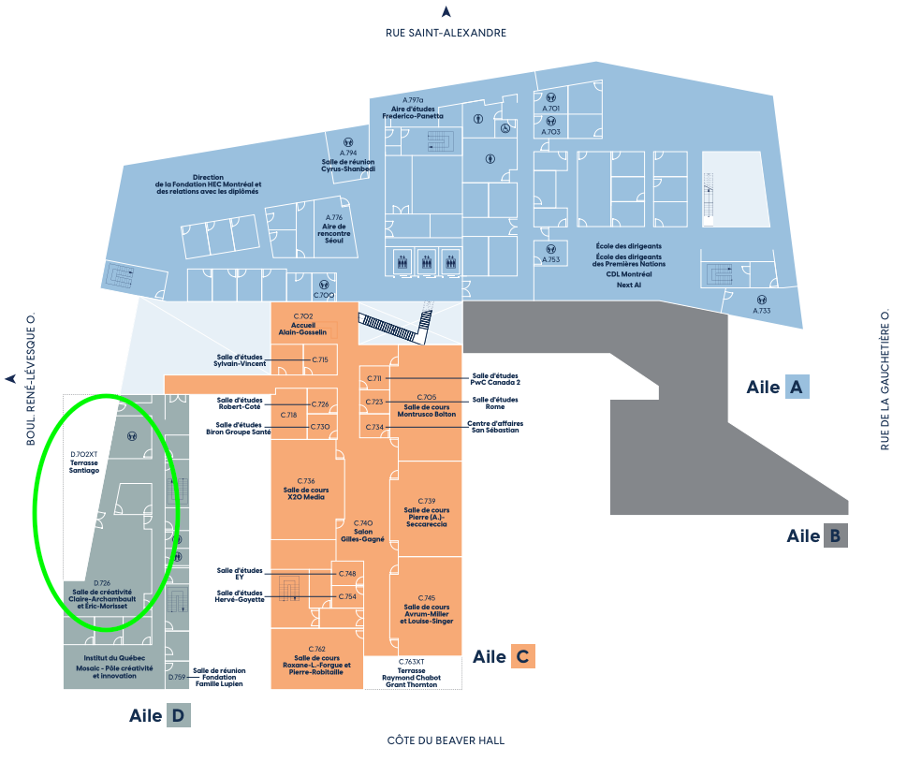
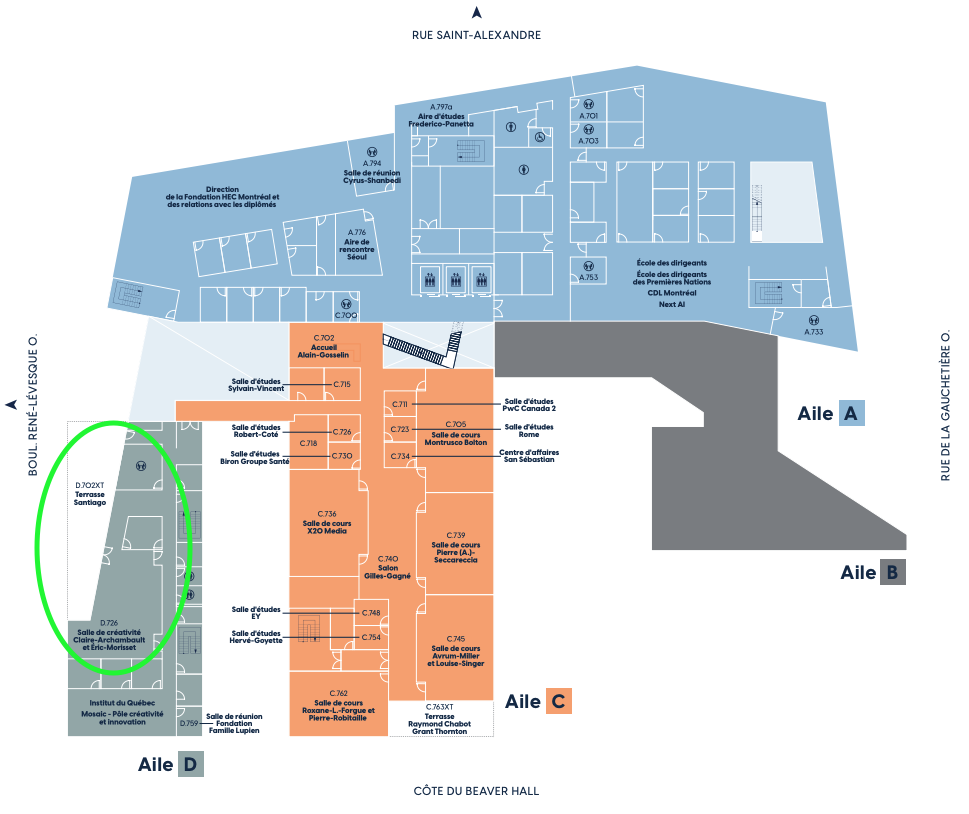
Replace floor plans - sizes & zooming option

diff --git a/docs/_layouts/default.html b/docs/_layouts/default.html
@@ -19,5 +19,36 @@
 
     {% include footer.html %}
 
+    <div class="img-modal" id="imgModal" aria-hidden="true">
+      <img id="imgModalContent" alt="">
+    </div>
+
+    <script>
+      const modal = document.getElementById("imgModal");
+      const modalImg = document.getElementById("imgModalContent");
+
+      document.addEventListener("click", (e) => {
+        const img = e.target.closest("img.zoom-img");
+        if (img) {
+          modalImg.src = img.src;
+          modalImg.alt = img.alt || "Zoomed image";
+          modal.classList.add("open");
+          modal.setAttribute("aria-hidden", "false");
+        } else if (e.target === modal) {
+          modal.classList.remove("open");
+          modal.setAttribute("aria-hidden", "true");
+          modalImg.src = "";
+        }
+      });
+
+      document.addEventListener("keydown", (e) => {
+        if (e.key === "Escape" && modal.classList.contains("open")) {
+          modal.classList.remove("open");
+          modal.setAttribute("aria-hidden", "true");
+          modalImg.src = "";
+        }
+      });
+    </script>
+
   </body>
 </html>

diff --git a/docs/assets/style.css b/docs/assets/style.css
@@ -234,6 +234,28 @@ hr {
   margin: 22px 0;
 }
 
+/* Zoom Images */
+.zoom-img { cursor: zoom-in; }
+
+.img-modal {
+  position: fixed; inset: 0;
+  background: rgba(0,0,0,.85);
+  display: none;
+  align-items: center;
+  justify-content: center;
+  padding: 24px;
+  z-index: 9999;
+}
+
+.img-modal.open { display: flex; }
+
+.img-modal img {
+  max-width: 95vw;
+  max-height: 95vh;
+  width: auto;
+  height: auto;
+}
+
 /* Footer */
 .site-footer {
   background: var(--footer-bg);

diff --git a/docs/accessibilite.md b/docs/accessibilite.md
@@ -45,7 +45,7 @@ Le pavillon Hélène-Desmarais possède plusieurs entrées :
 - **Métro :** Square-Victoria–OACI — suivre le panneau HEC Montréal et traverser le couloir jusqu’à la sortie. L’entrée Famille Waechter se situe juste en face, en traversant le passage piéton.
 - **Autobus :** ligne 150.
 - **Vélo :** supports à vélos intérieurs et extérieurs, ainsi que des stations BIXI à proximité (voir l’application BIXI).
-- **Voiture :** stationnement sur la rue de La Gauchetière Ouest; bornes pour véhicules électriques.
+- **Voiture :** entrée du stationnement sur la rue de La Gauchetière Ouest; bornes pour véhicules électriques.
 
 ---
 
@@ -53,21 +53,20 @@ Le pavillon Hélène-Desmarais possède plusieurs entrées :
 
 Voici un aperçu des salles où la conférence se déroulera, par étage.
 
-- **3e étage :** B.307 — Salle multifonctionnelle
-  ![3e étage carte]({{ site.baseurl }}/assets/img/accessibilite/etage-3.png)
+- **3e étage :** B.307 — Salle multifonctionnelle  
+  <img class="zoom-img" src="{{ site.baseurl }}/assets/img/accessibilite/etage-3.png" alt="Carte du 3e étage">
 
-- **4e étage :** A.451 — C.406 — C.412 — C.403
-  ![4e étage carte]({{ site.baseurl }}/assets/img/accessibilite/etage-4.png)
+- **4e étage :** A.451 — C.406 — C.412 — C.403  
+  <img class="zoom-img" src="{{ site.baseurl }}/assets/img/accessibilite/etage-4.png" alt="Carte du 4e étage">
 
-- **5e étage :** A.551 — A.505 — A.515 — C.521 — C.539
-  ![5e étage carte]({{ site.baseurl }}/assets/img/accessibilite/etage-5.png)
+- **5e étage :** A.551 — A.505 — A.515 — C.521 — C.539  
+  <img class="zoom-img" src="{{ site.baseurl }}/assets/img/accessibilite/etage-5.png" alt="Carte du 5e étage">
 
-- **7e étage :** D.726 — Salle de créativité
-  ![7e étage carte]({{ site.baseurl }}/assets/img/accessibilite/etage-7.png)
+- **7e étage :** D.726 — Salle de créativité  
+  <img class="zoom-img" src="{{ site.baseurl }}/assets/img/accessibilite/etage-7.png" alt="Carte du 7e étage">
 
-- **8e étage :** A.878 — Salle Guy-Fréchette
-  ![8e étage carte]({{ site.baseurl }}/assets/img/accessibilite/etage-8.png)
-
+- **8e étage :** A.878 — Salle Guy-Fréchette  
+  <img class="zoom-img" src="{{ site.baseurl }}/assets/img/accessibilite/etage-8.png" alt="Carte du 8e étage">
 
 Pour plus d’information sur l’accessibilité du pavillon Hélène-Desmarais, vous pouvez consulter le site de HEC Montréal à l’adresse suivante :
 <https://www.hec.ca/campus/helene-desmarais/>

diff --git a/docs/en/accessibilite.md b/docs/en/accessibilite.md
@@ -53,20 +53,20 @@ The Hélène-Desmarais Building has several entrances:
 
 Below is an overview of the rooms by floor.
 
-- **3rd floor:** B.307 — Multipurpose room
-  ![3rd floor map]({{ site.baseurl }}/assets/img/accessibilite/etage-3.png)
+- **3rd floor:** B.307 — Multipurpose room  
+  <img class="zoom-img" src="{{ site.baseurl }}/assets/img/accessibilite/etage-3.png" alt="3rd floor map">
 
-- **4th floor:** A.451 — C.406 — C.412 — C.403
-  ![4th floor map]({{ site.baseurl }}/assets/img/accessibilite/etage-4.png)
+- **4th floor:** A.451 — C.406 — C.412 — C.403  
+  <img class="zoom-img" src="{{ site.baseurl }}/assets/img/accessibilite/etage-4.png" alt="4th floor map">
 
-- **5th floor:** A.551 — A.505 — A.515 — C.521 — C.539
-  ![5th floor map]({{ site.baseurl }}/assets/img/accessibilite/etage-5.png)
+- **5th floor:** A.551 — A.505 — A.515 — C.521 — C.539  
+  <img class="zoom-img" src="{{ site.baseurl }}/assets/img/accessibilite/etage-5.png" alt="5th floor map">
 
-- **7th floor:** D.726 — Creativity room
-  ![7th floor map]({{ site.baseurl }}/assets/img/accessibilite/etage-7.png)
+- **7th floor:** D.726 — Creativity room  
+  <img class="zoom-img" src="{{ site.baseurl }}/assets/img/accessibilite/etage-7.png" alt="7th floor map">
 
-- **8th floor:** A.878 — Guy-Fréchette room
-  ![8th floor map]({{ site.baseurl }}/assets/img/accessibilite/etage-8.png)
+- **8th floor:** A.878 — Guy-Fréchette room  
+  <img class="zoom-img" src="{{ site.baseurl }}/assets/img/accessibilite/etage-8.png" alt="8th floor map">
 
 For more information about accessibility at the Hélène-Desmarais Building, see HEC Montréal’s page:
 <https://www.hec.ca/campus/helene-desmarais/>

diff --git a/docs/index.md b/docs/index.md
@@ -47,7 +47,7 @@ Le symposium réunit des doctorants issus des principales écoles de gestion de 
 Fondée en 1907, **HEC Montréal** est l’une des principales écoles de gestion au Canada et une institution reconnue internationalement pour la recherche et la formation aux cycles supérieurs.  
 Accueillir le Symposium doctoral 2026 s’inscrit dans l’engagement de HEC Montréal envers la formation doctorale, l’excellence académique et la collaboration interuniversitaire.
 
-Nous reconnaissons que HEC Montréal est situé sur un territoire autochtone qui a été colonisé. Historiquement, Tiohtiá:ke \| Mooniyang \| Montréal était un lieu de rassemblement pour différentes Premières Nations et aujourd'hui, une diversité de personnes autochtones et allochtones y vit. Voici une trousse d'outils pour les allié-es et complices des luttes autochtones : [https://reseaumtlnetwork.com/publication/trousse-alliees/](https://reseaumtlnetwork.com/publication/trousse-alliees/)
+Nous reconnaissons que HEC Montréal est situé sur un territoire autochtone qui a été colonisé. Historiquement, Tiohtiá:ke \| Mooniyang \| Montréal était un lieu de rassemblement pour différentes Premières Nations et aujourd'hui, une diversité de personnes autochtones et allochtones y vit. Voici une trousse d'outils pour les allié-es et complices des luttes autochtones : <https://reseaumtlnetwork.com/publication/trousse-alliees/>
 
 ---
 

diff --git a/docs/en/index.md b/docs/en/index.md
@@ -49,7 +49,7 @@ The symposium brings together doctoral researchers from Montreal’s leading bus
 Founded in 1907, **HEC Montréal** is one of Canada’s leading business schools and an internationally recognized institution for research and graduate education.  
 Hosting the 2026 PhD Annual Symposium reflects HEC Montréal’s commitment to doctoral training, academic excellence, and collaboration across institutions.
 
-We acknowledge that HEC Montréal is located on Indigenous territory that has been colonised. Historically, Tiohtiá:ke \| Mooniyang \| Montreal was a gathering place for various First Nations, and today, a diverse population of Indigenous and non-Indigenous people live there. Here is a toolkit for allies and supporters of Indigenous struggles: [https://reseaumtlnetwork.com/en/publication/ally-toolkit/](https://reseaumtlnetwork.com/en/publication/ally-toolkit/)
+We acknowledge that HEC Montréal is located on Indigenous territory that has been colonised. Historically, Tiohtiá:ke \| Mooniyang \| Montreal was a gathering place for various First Nations, and today, a diverse population of Indigenous and non-Indigenous people live there. Here is a toolkit for allies and supporters of Indigenous struggles: <https://reseaumtlnetwork.com/en/publication/ally-toolkit/>
 
 ---
 
